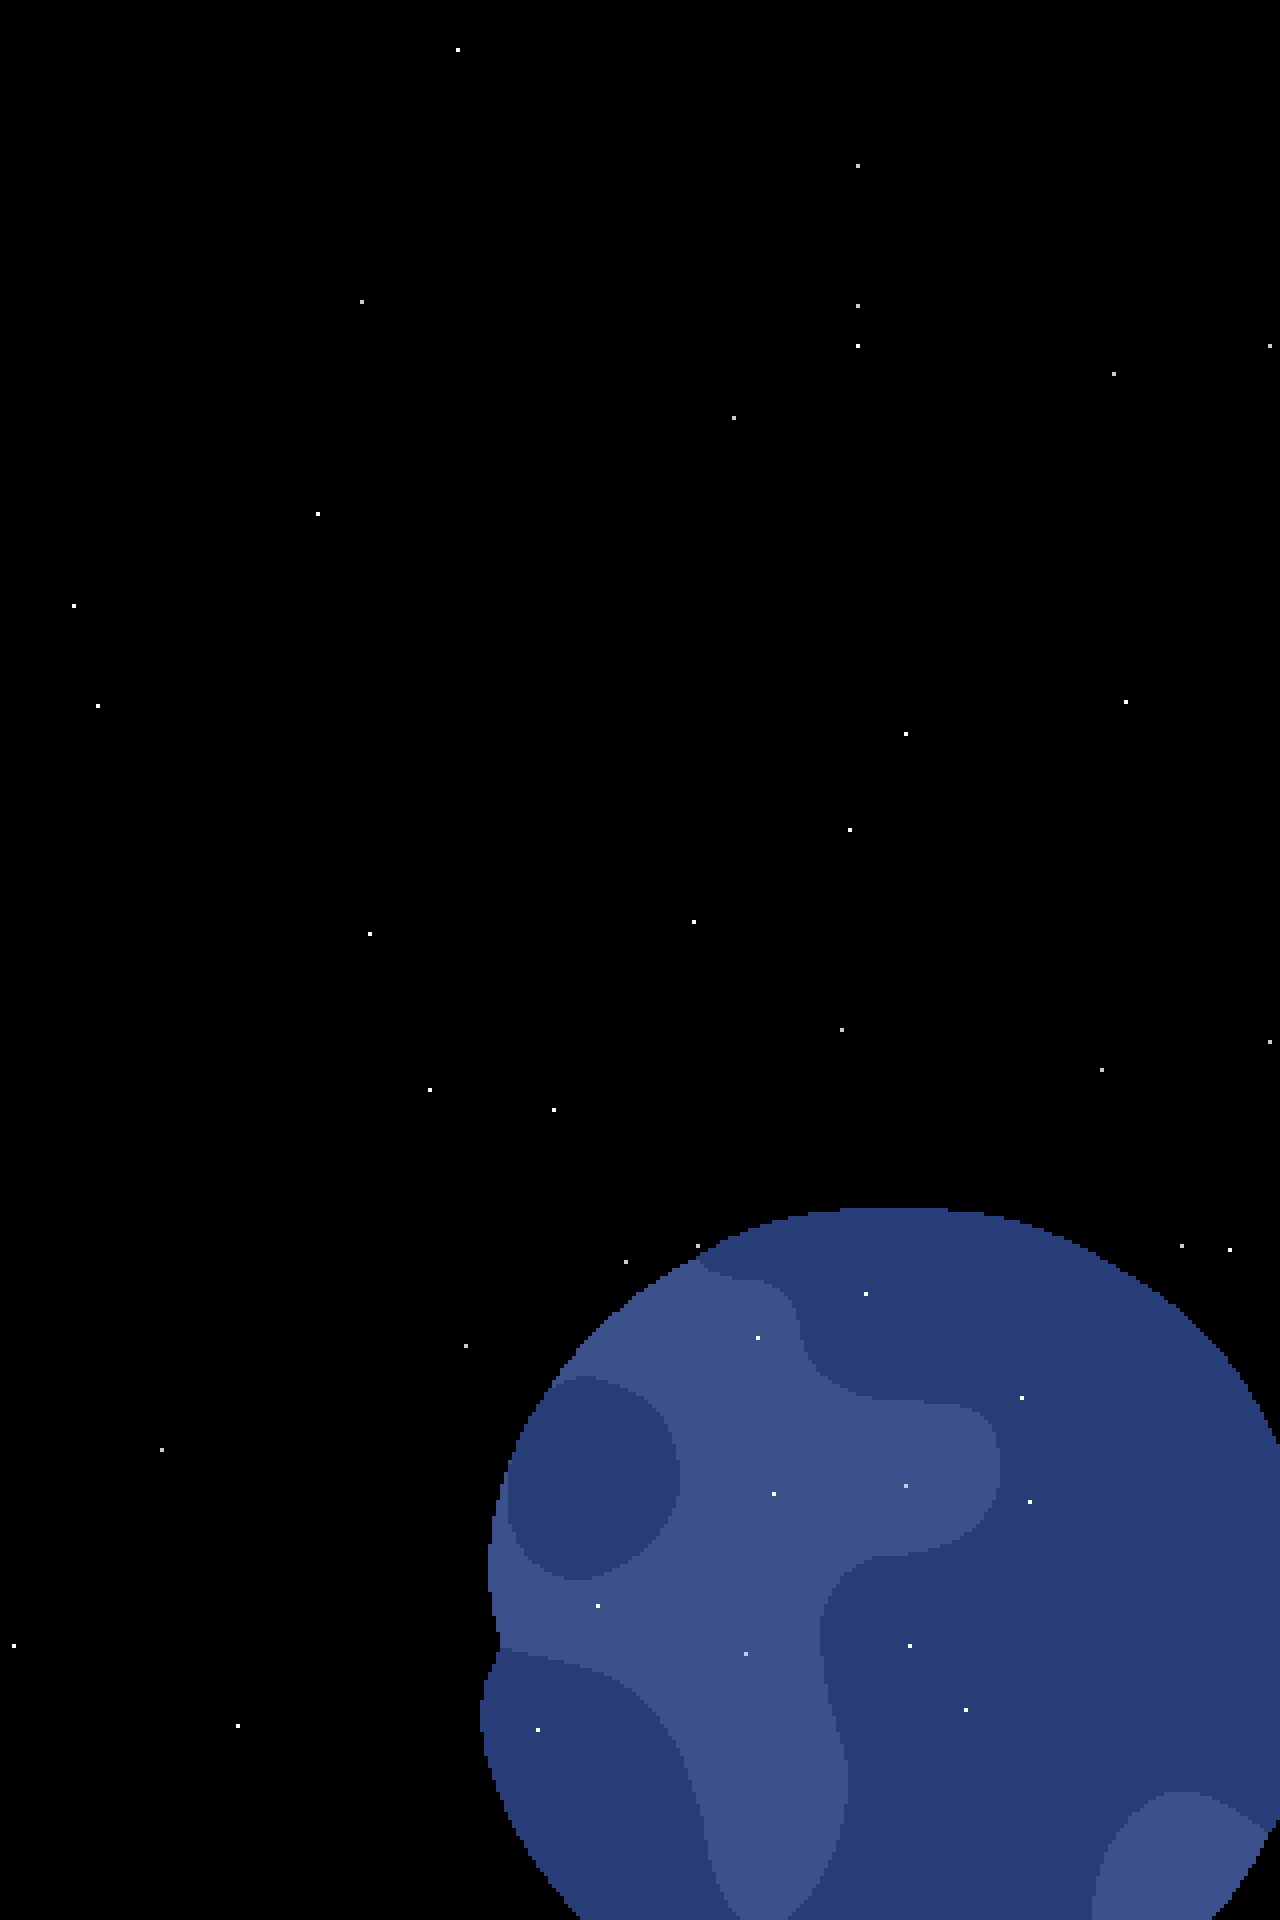
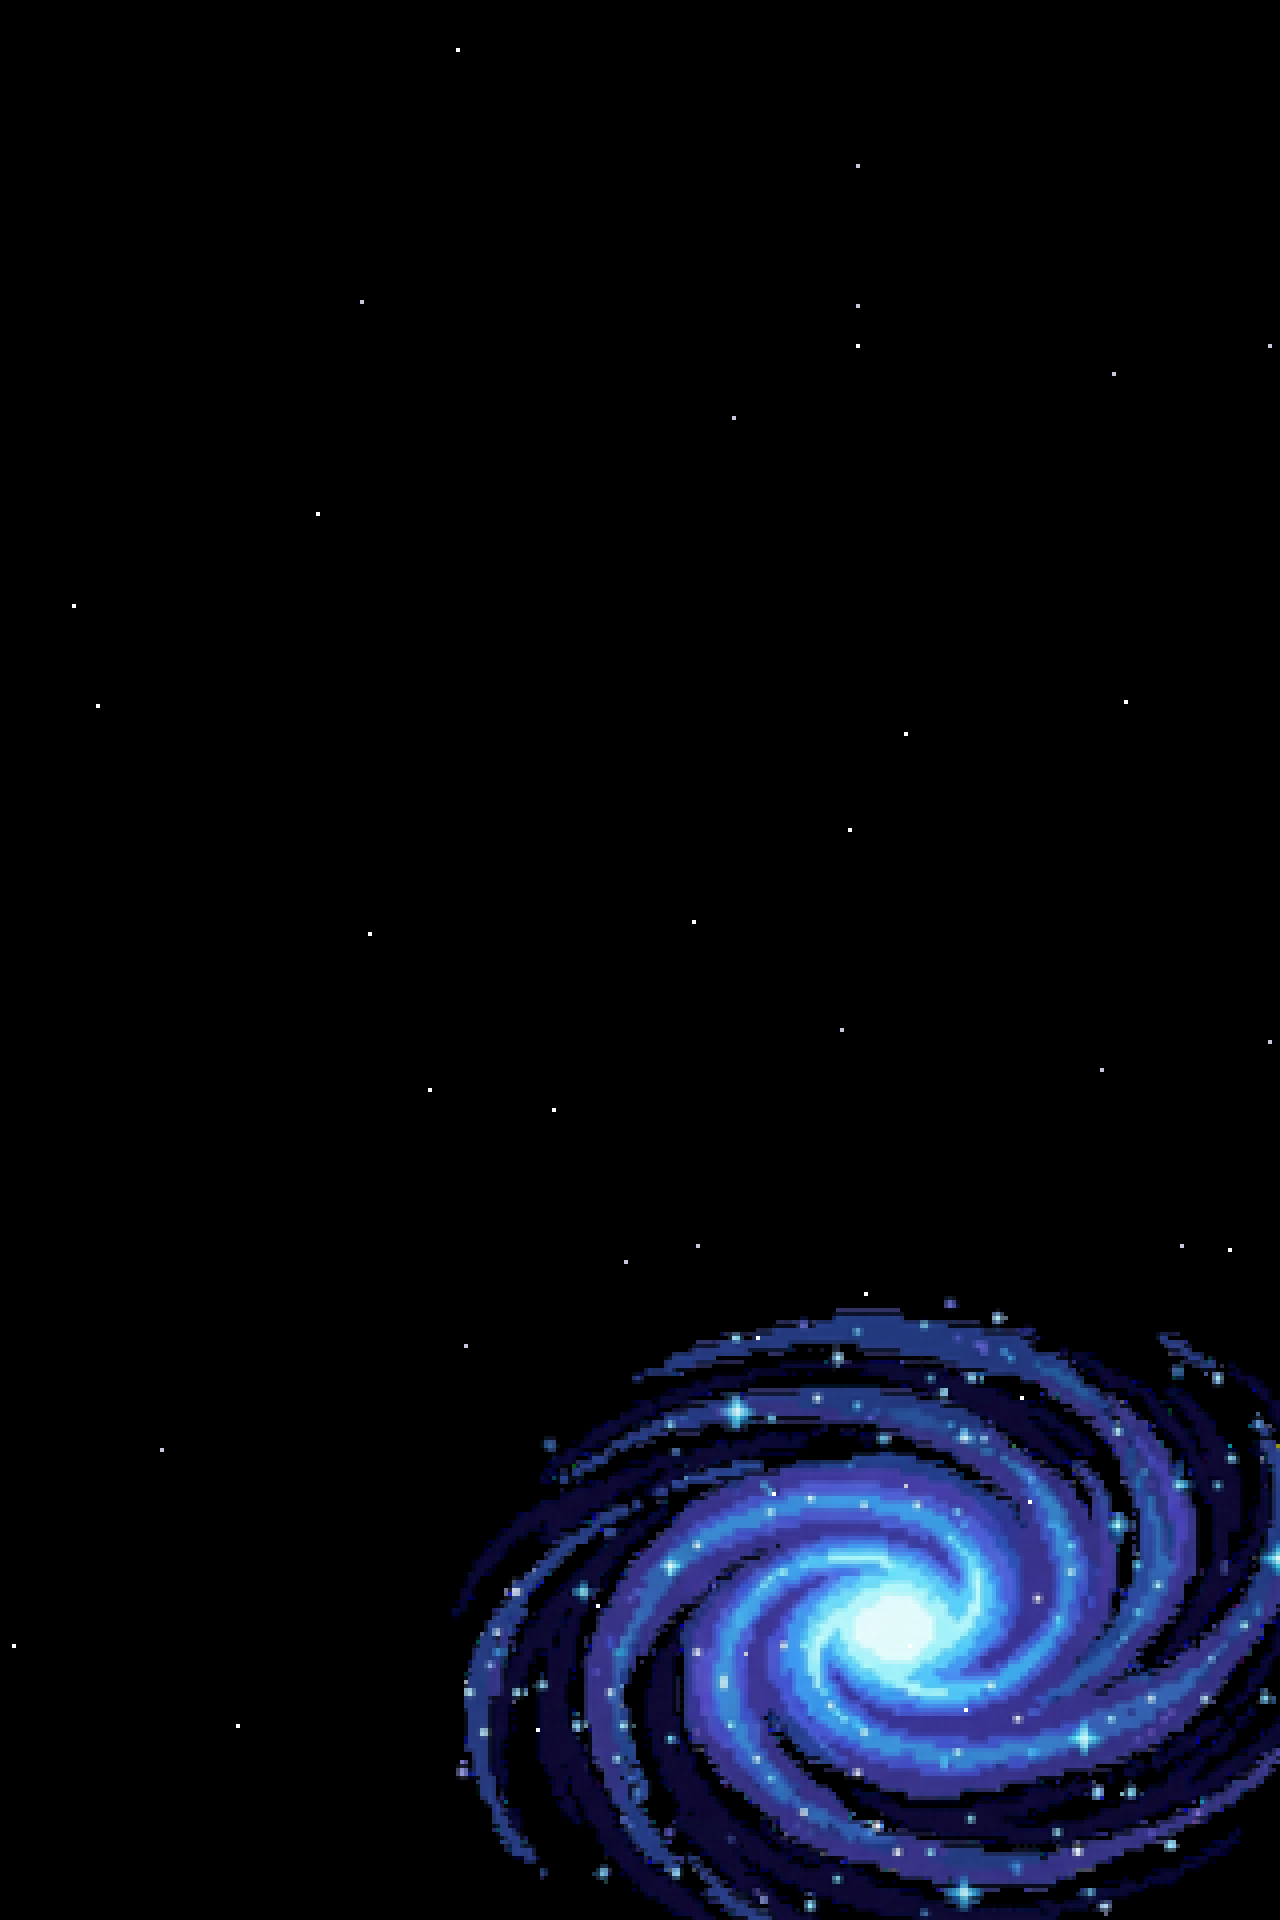
feat: VOID HUNTER v1.2.2 - AI-generated galaxy sprites for nebulas
The procedural spiral-arm nebula (BLOQUE 58.14.2) produced a solid-blue
disk with subtle banding, not a recognizable spiral galaxy. The user
provided 4 reference galaxy_panel_*.png images (spiral arms, bright
core, dust lanes, embedded stars) that look much more 'space-y'.

This commit replaces the procedural renderer with a SPRITE-BASED one:

- 4 AI-generated galaxy sprites at Assets/background/galaxy_sprite_0N.png
  (1024x1024 each, ~1MB per sprite). The sprites have:
  - bright white core
  - 2-3 visible spiral arms winding outward
  - dark dust lanes between the arms
  - embedded white stars
  - transparent background
  - different colors per variant (cyan, green, etc)

- src/systems/parallax.py:
  - _GALAXY_SPRITE_PATHS module-level constant pointing at the 4 files
  - _load_galaxy_sprites() lazy-loads them on first render (cached)
  - _render_nebula_surface() picks a random variant per nebula and
    smoothscales it to fit n.radius. Result: each nebula looks like
    a real spiral galaxy.
  - _fallback_nebula_surface() is a soft gradient circle used when
    the AI sprites are missing (e.g. in tests without the bundle).

- build.spec: bundle Assets/background/galaxy_sprite_*.png so the
  .exe can find them at runtime.

VISUAL PROOF:
- tools/playtest_out/nebula_ai_galaxy_v1.png: single large galaxy
  (gameplay config)
- tools/playtest_out/nebula_ai_galaxy_title_v1.png: 2 smaller
  galaxies on the title screen
- Both look like real spiral galaxies matching the user's
[…]

Changed region(s): [[0.3438, 0.625, 1.0, 1.0]]

diff --git a/src/audio/synth.py b/src/audio/synth.py
@@ -444,15 +444,37 @@ def apply_lowpass_to_wav(
             sample_width = wf.getsampwidth()
             n_frames = wf.getnframes()
             src_rate = wf.getframerate()
-            if sample_width != 2:
-                # Only 16-bit supported (the only format we ship)
+            if sample_width not in (2, 3, 4):
+                # 8-bit, 24-bit, 32-bit; 16-bit + 32-bit float not supported
                 return False
             raw = wf.readframes(n_frames)
     except (OSError, wave.Error, EOFError):
         return False
 
-    # Convert to numpy int16
-    samples = np.frombuffer(raw, dtype=np.int16)
+    # Decode the sample width to a numpy int array, then convert to int16
+    # (the math is identical — we just need to normalize to the [-1, 1]
+    # float range for the IIR filter).
+    if sample_width == 2:
+        # 16-bit PCM, little-endian, signed. Direct int16 cast.
+        samples = np.frombuffer(raw, dtype="<i2").astype(np.int16)
+    elif sample_width == 3:
+        # 24-bit PCM, little-endian, signed. Each sample is 3 bytes;
+        # convert to int32 first, then downscale to int16.
+        raw24 = np.frombuffer(raw, dtype=np.uint8).reshape(-1, 3)
+        as_i32 = (raw24[:, 0].astype(np.int32)
+                  | (raw24[:, 1].astype(np.int32) << 8)
+                  | (raw24[:, 2].astype(np.int32) << 16))
+        # Sign-extend (top bit of byte 2 = bit 23 of the int)
+        as_i32[as_i32 >= 0x800000] -= 0x1000000
+        # Downscale 24-bit -> 16-bit (right-shift by 8)
+        samples = (as_i32 >> 8).astype(np.int16)
+    elif sample_width == 4:
+        # 32-bit PCM, little-endian, signed. Downscale by right-shift 16.
+        as_i32 = np.frombuffer(raw, dtype="<i4")
+        samples = (as_i32 >> 16).astype(np.int16)
+    else:
+        return False
+
     if n_channels > 1:
         samples = samples.reshape(-1, n_channels)
     # Promote to float32 for IIR processing

diff --git a/src/ui/scenes.py b/src/ui/scenes.py
@@ -1424,8 +1424,28 @@ class PauseScene(Scene):
         from src.audio import music
         ok = music.exit_pause_lowpass()
         if not ok:
-            # Fallback: reload the gameplay track from the top.
-            music.play_gameplay_music(force=True)
+            # Fallback: if exit_pause_lowpass failed (e.g. enter was never
+            # called, or the BGM channel was stolen), DO NOT restart the
+            # music — just leave whatever is currently playing alone. The
+            # user would rather hear the filtered version end abruptly
+            # than have the song restart from 0.
+            try:
+                with open("logs/_audio_status.log", "a", encoding="utf-8") as _f:
+                    _f.write("PauseScene.on_exit: exit_pause_lowpass returned False; NOT restarting music\n")
+            except Exception:
+                pass
+            # Last resort: make sure the BGM channel isn't playing the
+            # filtered overlay anymore. We just stop the filtered channel
+            # if it's still around — the BGM channel will resume on its
+            # own if it was paused, or stay playing if it wasn't.
+            try:
+                if music._filtered_channel is not None:
+                    music._filtered_channel.stop()
+                if music._bgm_channel is not None and music._is_paused:
+                    music._bgm_channel.unpause()
+                    music._is_paused = False
+            except Exception:
+                pass
 
     def update(self, dt: float) -> None:
         self._t += dt
